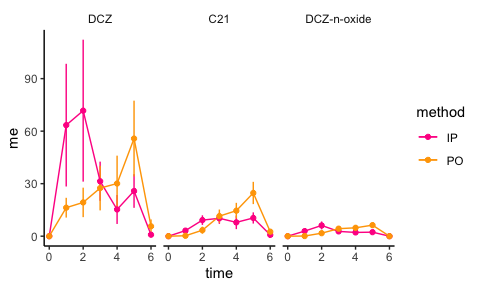
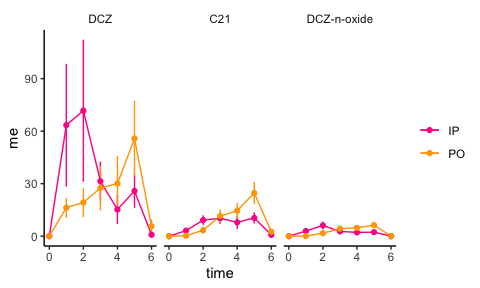
update_for_fig3

diff --git a/Fig3.md b/Fig3.md
@@ -7,6 +7,8 @@ output:
 
 
 
+## Setting
+
 
 ```r
 library(tidyverse)
@@ -15,6 +17,8 @@ theme_set(theme_classic())
 
 .colors <- c("deeppink", "orange")
 ```
+
+## Data
 
 
 ```r
@@ -43,6 +47,8 @@ dat
 ## # … with 32 more rows
 ```
 
+## Visualization
+
 
 ```r
 ggplot(data = dat) +
@@ -53,7 +59,8 @@ ggplot(data = dat) +
   geom_point() +
   scale_color_manual(values = .colors) +
   facet_wrap(~ target) +
-  theme(strip.background = element_rect(color = "white"))
+  theme(strip.background = element_rect(color = "white"),
+        legend.title = element_blank())
 ```
 
 ![](Fig3_files/figure-html/unnamed-chunk-3-1.png)<!-- -->
